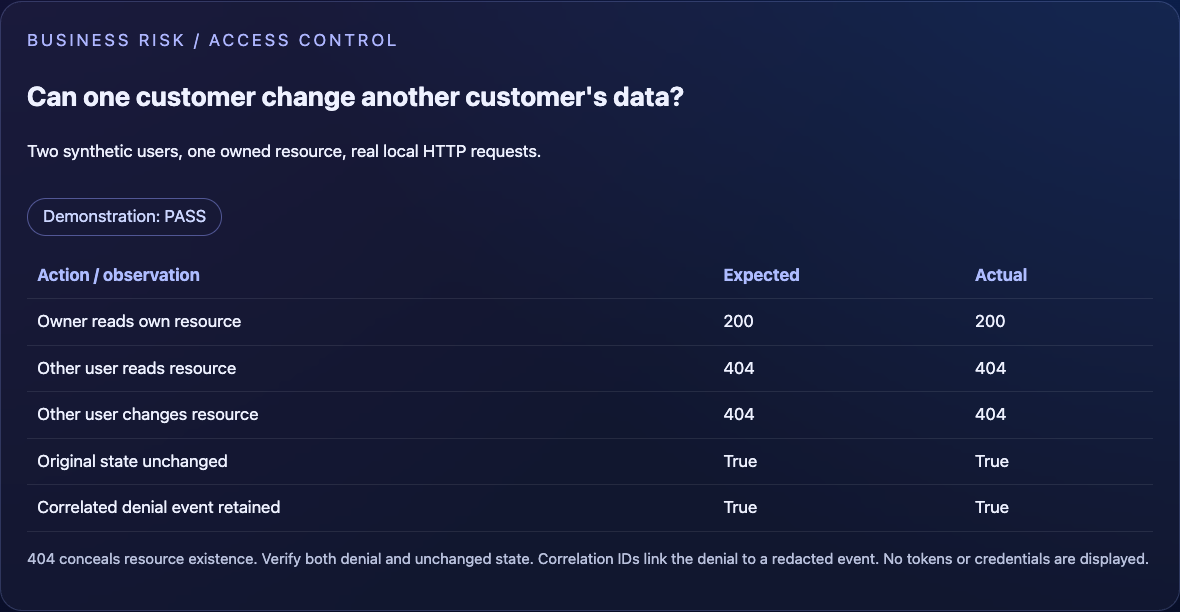
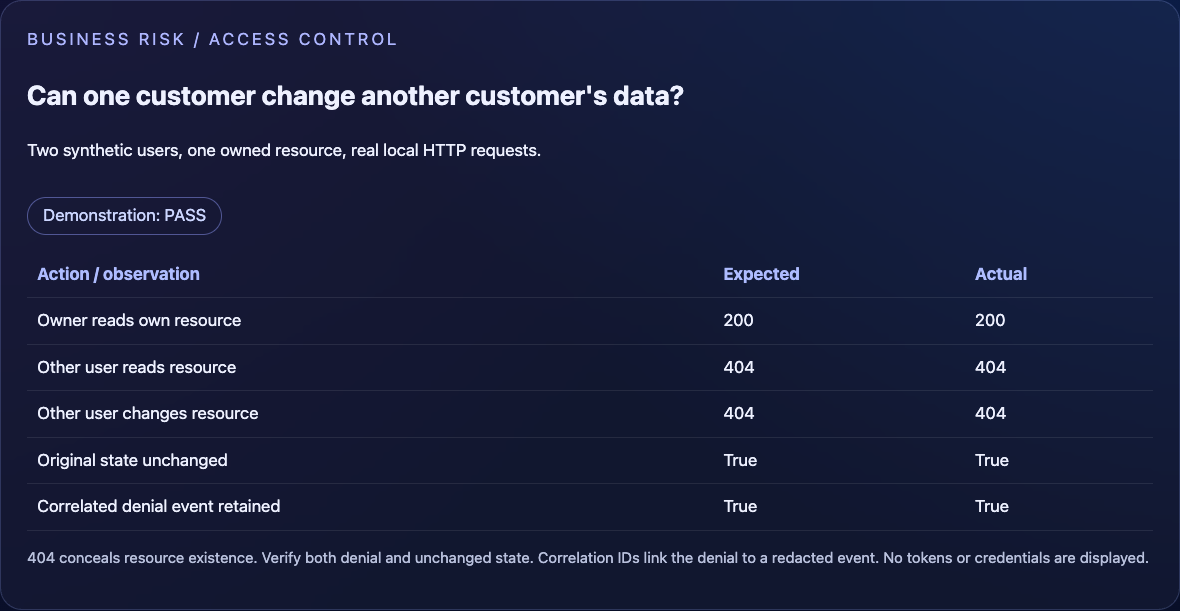
Document actual hosted verification, findings and reproducible handover

diff --git a/README.md b/README.md
@@ -1,5 +1,9 @@
 # COMPANY Security Lab · Sollutions
 
+[![Native verification](https://github.com/SollutionsIT/security_lab_2/actions/workflows/portfolio-native.yml/badge.svg)](https://github.com/SollutionsIT/security_lab_2/actions/workflows/portfolio-native.yml)
+[![Security checks](https://github.com/SollutionsIT/security_lab_2/actions/workflows/pr-security.yml/badge.svg)](https://github.com/SollutionsIT/security_lab_2/actions/workflows/pr-security.yml)
+[![Deep security](https://github.com/SollutionsIT/security_lab_2/actions/workflows/deep-security.yml/badge.svg)](https://github.com/SollutionsIT/security_lab_2/actions/workflows/deep-security.yml)
+
 ![COMPANY Security Lab: from security risks to tested controls](docs/assets/portfolio-hero.png)
 
 **A hands-on DevSecOps / AppSec learning portfolio: identify a risk, implement a control, test the failure case, and retain evidence.**
@@ -27,7 +31,7 @@ Start with [six evidence-backed case studies](docs/security-case-studies.md), [m
 
 ## See it working
 
-The screenshots below come from an actual local run, not fabricated dashboards. Exact runtime, results and skipped checks are in [PROJECT_STATUS.md](PROJECT_STATUS.md). The banner above is a conceptual AI-generated illustration.
+The screenshots below come from the [successful GitHub native run on 13 October 2026](https://github.com/SollutionsIT/security_lab_2/actions/runs/38406660665), not fabricated dashboards. “Local execution” in the report means loopback HTTP inside the GitHub runner, not a customer environment. It passed 71 Jest, 72 API, 95 gate/evidence tests and 14 Gherkin scenarios with no skips. Exact runtime, results and limitations are in [PROJECT_STATUS.md](PROJECT_STATUS.md). The banner above is a conceptual AI-generated illustration.
 
 ![Actual local verification summary](docs/assets/evidence-overview.png)
 
@@ -60,8 +64,8 @@ An HTTP request passes through correlation metadata, request validation and guar
 | pytest-bdd / Gherkin | Business-readable ownership, protected-field, webhook and gate acceptance rules | 14 executable scenarios; complement the full matrix |
 | Jest, Supertest, Ruff, mypy | Test application behavior and catch code/configuration mistakes | Local checks |
 | Gitleaks + publication hygiene check | Detect secret patterns and prevent private material from entering a portfolio | Complementary checks; not proof of complete anonymization |
-| Semgrep, npm audit, Trivy, OWASP ZAP | SAST, dependency, IaC/container and dynamic scanning | Configured; consult the ledger for actual execution |
-| GitHub Actions, CodeQL, security gates | Automate verification and make release decisions explicit | Workflows included; remote execution is not implied |
+| Semgrep, npm audit, Trivy, OWASP ZAP | SAST, dependency, IaC/container and dynamic scanning | Independent jobs; consult the dated execution ledger |
+| GitHub Actions, CodeQL, security gates | Automate verification and make release decisions explicit | Actual run links and limitations in the execution ledger |
 | Docker, Kubernetes security contexts / policies | Least-privilege deployment examples | Templates; no production cluster claim |
 | Syft / CycloneDX, hashes, provenance examples | Identify dependencies and trace delivery artifacts | Supply-chain examples; consult execution status |
 | STRIDE, OWASP ASVS / API Security, NIST SSDF | Connect threat reasoning to concrete verification | Reference mapping, not formal certification |
@@ -69,19 +73,11 @@ An HTTP request passes through correlation metadata, request validation and guar
 
 ## Run locally
 
-Prerequisites: Node.js 24, npm 11+, Python 3.13, Git. Docker and external scanners are optional and documented separately.
+Prerequisites: Node.js 24.21.0, npm 11.19.0, Python 3.13, Git. Docker and external scanners are separate prerequisites for their respective commands.
 
 ```sh
 make install
-npm --prefix lab-api run build
-make lab-native                 # keep running in terminal 1: 127.0.0.1:3001
-```
-
-In terminal 2:
-
-```sh
-make lint unit security-test gate publication-check
-make portfolio-evidence        # executes checks, captures demo, creates HTML evidence
+make ci-verify                     # starts and cleans up its own loopback API
 open reports/portfolio/index.html   # macOS; use a browser on other systems
 ```
 
@@ -95,7 +91,7 @@ The [runbook](docs/local-runbook.md) explains scanner prerequisites, configurati
 
 GitHub's `portfolio-native.yml` and the independent root `.gitlab-ci.yml` use the same command. Scanner jobs add secrets/SAST/Trivy checks; GitHub deep/release workflows cover additional configured integrations. GitLab displays JUnit and retains a verified build candidate on protected tags. Delivery means retained artifacts, not production deployment.
 
-See [CI/Gherkin setup, gate policy and first-run checklist](docs/ci-cd-and-gherkin.md). Remote execution is pending until publication and runner execution are authorized; local PASS is not a GitHub/GitLab badge. [Career positioning and CV wording](docs/career-positioning.md) distinguish practical lab experience from commercial security ownership.
+See [CI/Gherkin setup, gate policy and first-run checklist](docs/ci-cd-and-gherkin.md) and the dated [execution ledger](PROJECT_STATUS.md). Badges show workflow conclusions, not zero vulnerabilities: WARN findings still require triage. GitLab configuration is included but its remote execution is not claimed. [Career positioning and CV wording](docs/career-positioning.md) distinguish practical lab experience from commercial security ownership.
 
 ## Start reviewing here
 
@@ -109,7 +105,7 @@ See [CI/Gherkin setup, gate policy and first-run checklist](docs/ci-cd-and-gherk
 
 ## Honest limitations and learning ownership
 
-No live cloud, Kubernetes, payment, LLM or customer environment is claimed. Persistence is in-memory. Shared test state means the API suite must run serially. SSRF checks demonstrate policy decisions, not a production egress proxy. AI behavior is mocked. Scanner output requires triage; a green test suite does not prove an application has no vulnerabilities. Local test results are not evidence that GitHub Actions has run.
+No live cloud, Kubernetes, payment, LLM or customer environment is claimed. Persistence is in-memory. Shared test state means the API suite must run serially. SSRF checks demonstrate policy decisions, not a production egress proxy. AI behavior is mocked. ZAP baseline covers the unauthenticated health endpoint, not the complete API. Scanner output requires triage; a green test suite does not prove an application has no vulnerabilities. Local, GitHub-runner and production evidence are different scopes.
 
 AI assistance was used for implementation and documentation. The learning work is understanding the design, validating behavior, examining failures and explaining tradeoffs—not claiming every line was independently authored. Proposed future integrations (DefectDojo, Wazuh, Vault, Checkov) are described as future work, not acquired production experience.
 

diff --git a/docs/evidence/github-ci-verification-2026-10-13.md b/docs/evidence/github-ci-verification-2026-10-13.md
@@ -1,0 +1,52 @@
+# GitHub verification — 13 October 2026
+
+This is a real hosted-runner verification of the synthetic reference lab, not a customer or production audit. Raw scanner/JUnit reports are retained as workflow artifacts; this page contains reviewed public aggregates. Scan databases and advisory counts are time-sensitive.
+
+## Reproducible native evidence
+
+Commit: `8ac4cbefb6e7afe21a5c78daed598ff67d7d9377`.
+
+[Native run](https://github.com/SollutionsIT/security_lab_2/actions/runs/38406660665): **SUCCESS**, Python 3.13.16, Node 24.21.0 / npm 11.19.0 on Ubuntu 24.04. The command was `make ci-verify`; the wrapper owned and cleaned up its loopback API.
+
+- 71 Jest/Supertest, 72 API security, 95 gate/evidence tests and 14 executable Gherkin scenarios passed; no skipped cases.
+- TypeScript build/typecheck, Ruff, mypy, publication hygiene and the ownership/state/event demonstration passed.
+- Full npm audit: 20 moderate package entries, no high/critical; **WARN** remains. Production-only audit: zero reported entries.
+- README screenshots are captured from this run's actual HTML artifact. “Local” in that report means runner loopback, not a laptop or production service.
+
+## Independent security jobs
+
+[Fast security run](https://github.com/SollutionsIT/security_lab_2/actions/runs/38406661002): **SUCCESS**.
+
+- Gitleaks 8.30.1: no matches in the entire Git history or distributable tree under the reviewed configuration. The isolated synthetic canary was detected as expected.
+- Semgrep 1.173.0: four custom rule self-tests passed; source scan produced zero findings and zero scan errors. Intentional positive fixtures are tested separately, not mislabeled application vulnerabilities.
+- Trivy 0.75.0 filesystem scan: zero dependency vulnerabilities and secrets; two LOW Kubernetes configuration findings (`KSV-0020`, `KSV-0021`: UID/GID 1000). Non-root execution is configured; using a dedicated UID/GID above 10000 is an additional hardening option requiring workload/volume compatibility verification.
+- Scanner archive SHA-256 checks precede binary extraction. Workflow Actions remain immutable-SHA pinned.
+
+[Successful isolated API/ZAP run](https://github.com/SollutionsIT/security_lab_2/actions/runs/38406258828): the API regressions and non-root, read-only ZAP job passed. ZAP 2.17.0 baseline observed one informational “Storable and Cacheable Content” alert on the local `/health` target. It does not test authenticated API coverage or demonstrate active penetration testing.
+
+[Updated container and SBOM run](https://github.com/SollutionsIT/security_lab_2/actions/runs/38406660990): the container/SBOM job passed. Trivy reported zero CRITICAL/HIGH, one MEDIUM OS package entry (`CVE-2026-85091`, zlib 1.3.2-r0; database fixed version 1.3.2-r1) and zero secrets. Gate: **WARN**, not a clean scan. CycloneDX SBOM contains 366 components.
+
+## Failures investigated rather than hidden
+
+1. Gitleaks' former Action bundled a version too old for the configured allowlist syntax. The pinned official CLI now reads the configuration; history/tree scans and a positive canary verify behavior.
+2. Semgrep's direct rule-test file/directory combination failed. A checked helper materializes sibling rule/fixture files, requires all four positive/negative cases and checks the exact nonzero test count.
+3. The old Node/Alpine image produced 3 CRITICAL and 49 HIGH package entries. Updating the publisher-pinned base reduced them to 8 HIGH, all in the bundled npm toolchain. Removing unused npm from the **runtime stage only** reduced the final image to 0 CRITICAL/HIGH and 1 MEDIUM. Build-stage `npm ci --ignore-scripts` is retained; no scanner suppression was added.
+4. New npm rejected missing optional dependency lock entries. The lock was regenerated with npm 11.19.0 in a fresh directory and validated with strict `npm ci --ignore-scripts`, without force/legacy-peer overrides.
+5. ZAP failed on a read-only home, report-directory ownership, temporary storage and an arbitrary runner UID's JVM home. Bounded tmpfs, matching non-root UID/GID and explicit JVM home fixed startup; diagnostic logs and failure exit codes are retained. Capabilities remain dropped and the root filesystem read-only.
+6. Publication hygiene rejected ambiguous home-path notation. Explicit container directory notation passed the existing strict check; its denylist was not relaxed to permit personal paths.
+
+Historical failed runs remain visible. Successful checks do not erase earlier failures or unresolved risks.
+
+## Prioritization and next actions
+
+## Public integration phase
+
+Repository visibility was changed to public with the owner's explicit approval after the private-phase checks passed. Public CodeQL/deep verification and release provenance were dispatched separately: [deep run](https://github.com/SollutionsIT/security_lab_2/actions/runs/38407384264), [release run](https://github.com/SollutionsIT/security_lab_2/actions/runs/38407388676). Their conclusions must be checked before calling these integrations verified.
+
+## Prioritization and next actions
+
+I treated exposed runtime dependency findings first: update the base, remove unnecessary runtime tooling, rebuild, then rescan and retest. This reduces the delivered attack surface without pretending every package advisory is an exploitable endpoint. The remaining zlib MEDIUM should receive a compatible publisher/package update and a fresh build/scan. The 20 moderate npm development-chain entries require build-input reachability triage and a compatible toolchain update, not a forced downgrade.
+
+For a real company pilot, require an owner and deadline for remaining findings, dependency-update cadence, branch rules, least-privilege secrets and authenticated API coverage. Validate Kubernetes admission/network controls in an authorized cluster before making enforcement claims. These actions align with least privilege and OWASP/NIST SSDF dependency verification; they are not ISO certification or a compliance assessment.
+
+GitLab CI YAML and local contract checks are included, but no GitLab server pipeline was executed. No production deployment, cloud account, Kubernetes cluster, customer data, payment provider or LLM was used.

diff --git a/PROJECT_STATUS.md b/PROJECT_STATUS.md
@@ -1,5 +1,7 @@
 # Execution ledger — 2026-10-11
 
+**Latest verification: 13 October 2026.** Earlier sections below are dated historical snapshots, not the current integration status. The repository is public following owner-approved checks. See [GitHub verification and remediation](docs/evidence/github-ci-verification-2026-10-13.md) for run links, actual findings and scope.
+
 This ledger concerns the sanitized standalone lab. It does not inherit an unverified result from another checkout. Primary evidence is generated locally under gitignored `reports/portfolio/`; README screenshots are reviewed snapshots, not remote CI results.
 
 ## Actually executed
@@ -94,3 +96,19 @@ The reviewed synthetic `docs/evidence/` files and this ledger are retained in th
 The later retained [publication review](docs/evidence/publication-review.md) records the 11 October native run at `15:18:42Z`: 71 Jest, 72 API, 14 Gherkin and 79 gate/evidence/publication tests passed. These are dated local results, not a new 13 October integration run. Earlier 16/21/33-test snapshots above remain historical and do not silently inherit later counts.
 
 On 13 October, the working-tree Gitleaks scan found no leaks and the publication text/name hygiene check passed. These scoped checks are not a complete privacy or licensing guarantee. Remote CI, canonical Python 3.13 execution and platform/external-scanner validation still require the actual authorized runs. The project is publishable as a working reference lab with these limitations, not a production-readiness or compliance claim.
+
+## Hosted GitHub verification — 13 October 2026
+
+Commit `8ac4cbefb6e7afe21a5c78daed598ff67d7d9377`, Ubuntu 24.04, Node 24.21.0 / npm 11.19.0, Python 3.13.16:
+
+| Workflow | Actual result | Evidence |
+|---|---|---|
+| Portfolio native evidence | SUCCESS: 71 Jest, 72 API, 95 gate/evidence, 14 Gherkin; no skips | [Run 38406660665](https://github.com/SollutionsIT/security_lab_2/actions/runs/38406660665) |
+| PR fast security | SUCCESS: quality, history/tree Gitleaks + canary, 4 Semgrep self-tests + source scan, filesystem Trivy | [Run 38406661002](https://github.com/SollutionsIT/security_lab_2/actions/runs/38406661002) |
+| Deep security, private phase | SUCCESS: isolated API/ZAP, container scan and actual image CycloneDX SBOM; CodeQL explicitly skipped pending public entitlement | [Run 38406660990](https://github.com/SollutionsIT/security_lab_2/actions/runs/38406660990) |
+
+Full npm audit retains 20 moderate development dependency entries; production-only audit reports zero. Final runtime image scan retains one MEDIUM zlib advisory and no HIGH/CRITICAL; filesystem scan retains two LOW UID/GID template findings. ZAP baseline is limited to unauthenticated `/health`; one informational cacheability alert was observed. Successful workflow conclusions include policy WARN, not a zero-risk claim.
+
+The public change was authorized after these jobs and publication review passed. Full-history Gitleaks checked all eight anonymized commits with no findings. Author identity uses Sollutions and the GitHub noreply email. README screenshots are now reviewed actual hosted-runner native evidence, not the earlier 11 October images. Raw reports, private documents and runtime dependencies remain gitignored.
+
+CodeQL and release attestation were separately dispatched after publication; their final results are recorded in the verification report. GitLab remote execution and Kubernetes deployment/enforcement remain unverified; no production deployment is claimed.

diff --git a/docs/ci-cd-and-gherkin.md b/docs/ci-cd-and-gherkin.md
@@ -86,7 +86,7 @@ GitHub Actions are pinned to SHAs; native/fast checkouts disable persisted Git c
 
 1. Publish/import the sanitized project with `.gitlab-ci.yml` at repository root. Do not copy another customer's history.
 2. Use an ephemeral **Linux x86_64 Docker/container runner**, not a privileged host shell runner. No Docker-in-Docker/socket is needed for these jobs.
-3. Allow pulls/downloads from the official container registry, nodejs.org, PyPI, npm and scanner databases. The Python/Gitleaks/Trivy images are digest-pinned; Node 24.12.0 is verified against a committed SHA-256 from the official release manifest. Python's direct dependencies are pinned; the complete transitive Python graph is not hash-locked.
+3. Allow pulls/downloads from the official container registry, nodejs.org, PyPI, npm and scanner databases. The Python/Gitleaks/Trivy images are digest-pinned; Node 24.21.0 is verified against a committed SHA-256 from the official release manifest. Python's direct dependencies are pinned; the complete transitive Python graph is not hash-locked.
 4. Validate the YAML with GitLab **CI Lint**, run a branch/MR pipeline, inspect JUnit/JSON/artifacts, then test a known failing branch. Local YAML/contract tests are not GitLab server validation.
 5. Configure protected branches/tags and review required pipeline success. The delivery job runs only for a protected tag and waits for the native, secret, SAST and scanner-policy jobs.
 6. Do not grant protected variables to untrusted MR code. Avoid parent-project execution of an untrusted fork with privileged access; review runner/token permissions and artifact visibility.
@@ -97,6 +97,6 @@ MR rules avoid a duplicate push pipeline when an open MR exists. The build archi
 
 Reports are gitignored. Both providers retain evidence for seven days even after failed verification; the protected-tag candidate uses 14 days. Raw API process logs stay local to the runner and are not explicitly uploaded by the native job. Check logs may contain diagnostic data: review redaction/artifact access before adapting the lab to real data. No automatic public Pages/report website is created.
 
-Local command success, syntax/contract checks, a successful remote job and actual deployed enforcement are separate evidence levels. First remote runs remain pending until repository publication and runner execution are authorized.
+Local command success, syntax/contract checks, a successful remote job and actual deployed enforcement are separate evidence levels. Consult the dated execution ledger for actual GitHub results. GitLab server CI Lint and remote execution remain separate adoption steps.
 
 Official implementation references: [GitHub secure workflow use](https://docs.github.com/en/actions/reference/security/secure-use), [GitLab MR pipelines](https://docs.gitlab.com/ci/pipelines/merge_request_pipelines/), [GitLab JUnit reports](https://docs.gitlab.com/ci/testing/unit_test_reports/), [pytest-bdd](https://pytest-bdd.readthedocs.io/en/latest/), [OWASP CI/CD Security](https://cheatsheetseries.owasp.org/cheatsheets/CI_CD_Security_Cheat_Sheet.html).

diff --git a/docs/local-runbook.md b/docs/local-runbook.md
@@ -4,7 +4,9 @@ Run all commands from the repository root. Never target a system you do not own 
 
 ## 1. Install and start
 
-Required: Node 24, npm 11+, Python 3.13. `make install` installs pinned npm/Python dependencies (including Semgrep and pre-commit). Security scanners also need network/database access. Gitleaks, Docker, Trivy and Syft are separate binaries.
+Canonical CI: Node 24.21.0, npm 11.19.0, Python 3.13. `make install` installs pinned npm/Python dependencies (including Semgrep and pre-commit). Security scanners also need network/database access. Gitleaks 8.30.1, Docker, Trivy 0.75.0 and Syft are separate binaries. The GitHub Linux scanner installer verifies the committed official archive SHA-256 before extracting the single executable.
+
+For the complete native slice, run `make install` then `make ci-verify` with port 3001 free; open `reports/portfolio/index.html`. That command owns startup and cleanup. Do not start the separate API below at the same time.
 
 ```sh
 make install
@@ -52,7 +54,7 @@ For normalized policy decisions use `security/scripts/normalize_scanner.py --hel
 
 Existing workflows: `pr-security.yml` (quality, hygiene, secrets, SAST, dependencies/IaC), `deep-security.yml` (local integration/DAST and deeper checks), `release.yml` (local artifact verification). They do not imply deployment. Action references are pinned; scheduled external databases/images still need review. Dependabot is configured separately.
 
-`portfolio-native.yml` adds the native vertical slice under canonical Python 3.13, with local health readiness, cleanup, retained HTML/JUnit evidence and an npm high/critical gate. Its configuration was inspected locally; execution still requires the first GitHub run. The HTML report distinguishes the checks it runs itself from separate scanner jobs.
+`portfolio-native.yml` executes the native vertical slice under canonical Python 3.13, with local health readiness, cleanup, retained HTML/JUnit evidence and an npm high/critical gate. Actual GitHub runs are recorded in the dated execution ledger. The HTML report distinguishes the checks it runs itself from separate scanner jobs.
 
 Publish only the sanitized directory with new history. Enable Actions and inspect the first run, tool versions, artifacts and denied-release cases. Set branch rules requiring the appropriate jobs; uploading a report is not itself a security gate. Use minimal token permissions; no production secrets in untrusted PR jobs. Remote CI has not run merely because these files exist.
 
